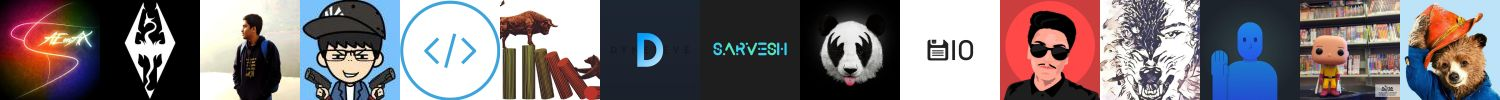
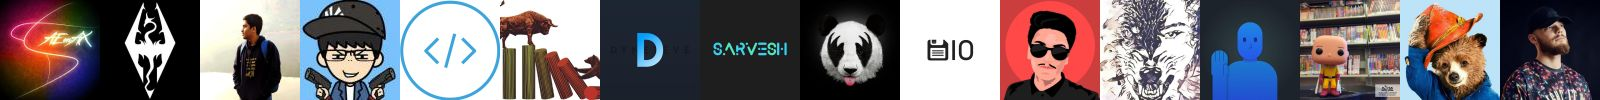
Add pi4a7a

diff --git a/v2/index.html b/v2/index.html
@@ -324,6 +324,13 @@
 						</div>
 					</section>
 					<section>
+						<img class="team" style="background-position-x: -75em;" />
+						<div>
+							<h2>pi4a7a</h2>
+							<p>Flying AI Spaghetti Admin</p>
+						</div>
+					</section>
+					<section>
 						<img class="spons" style="background-position-x: 0em;" />
 						<div>
 							<h2>viSH</h2>
